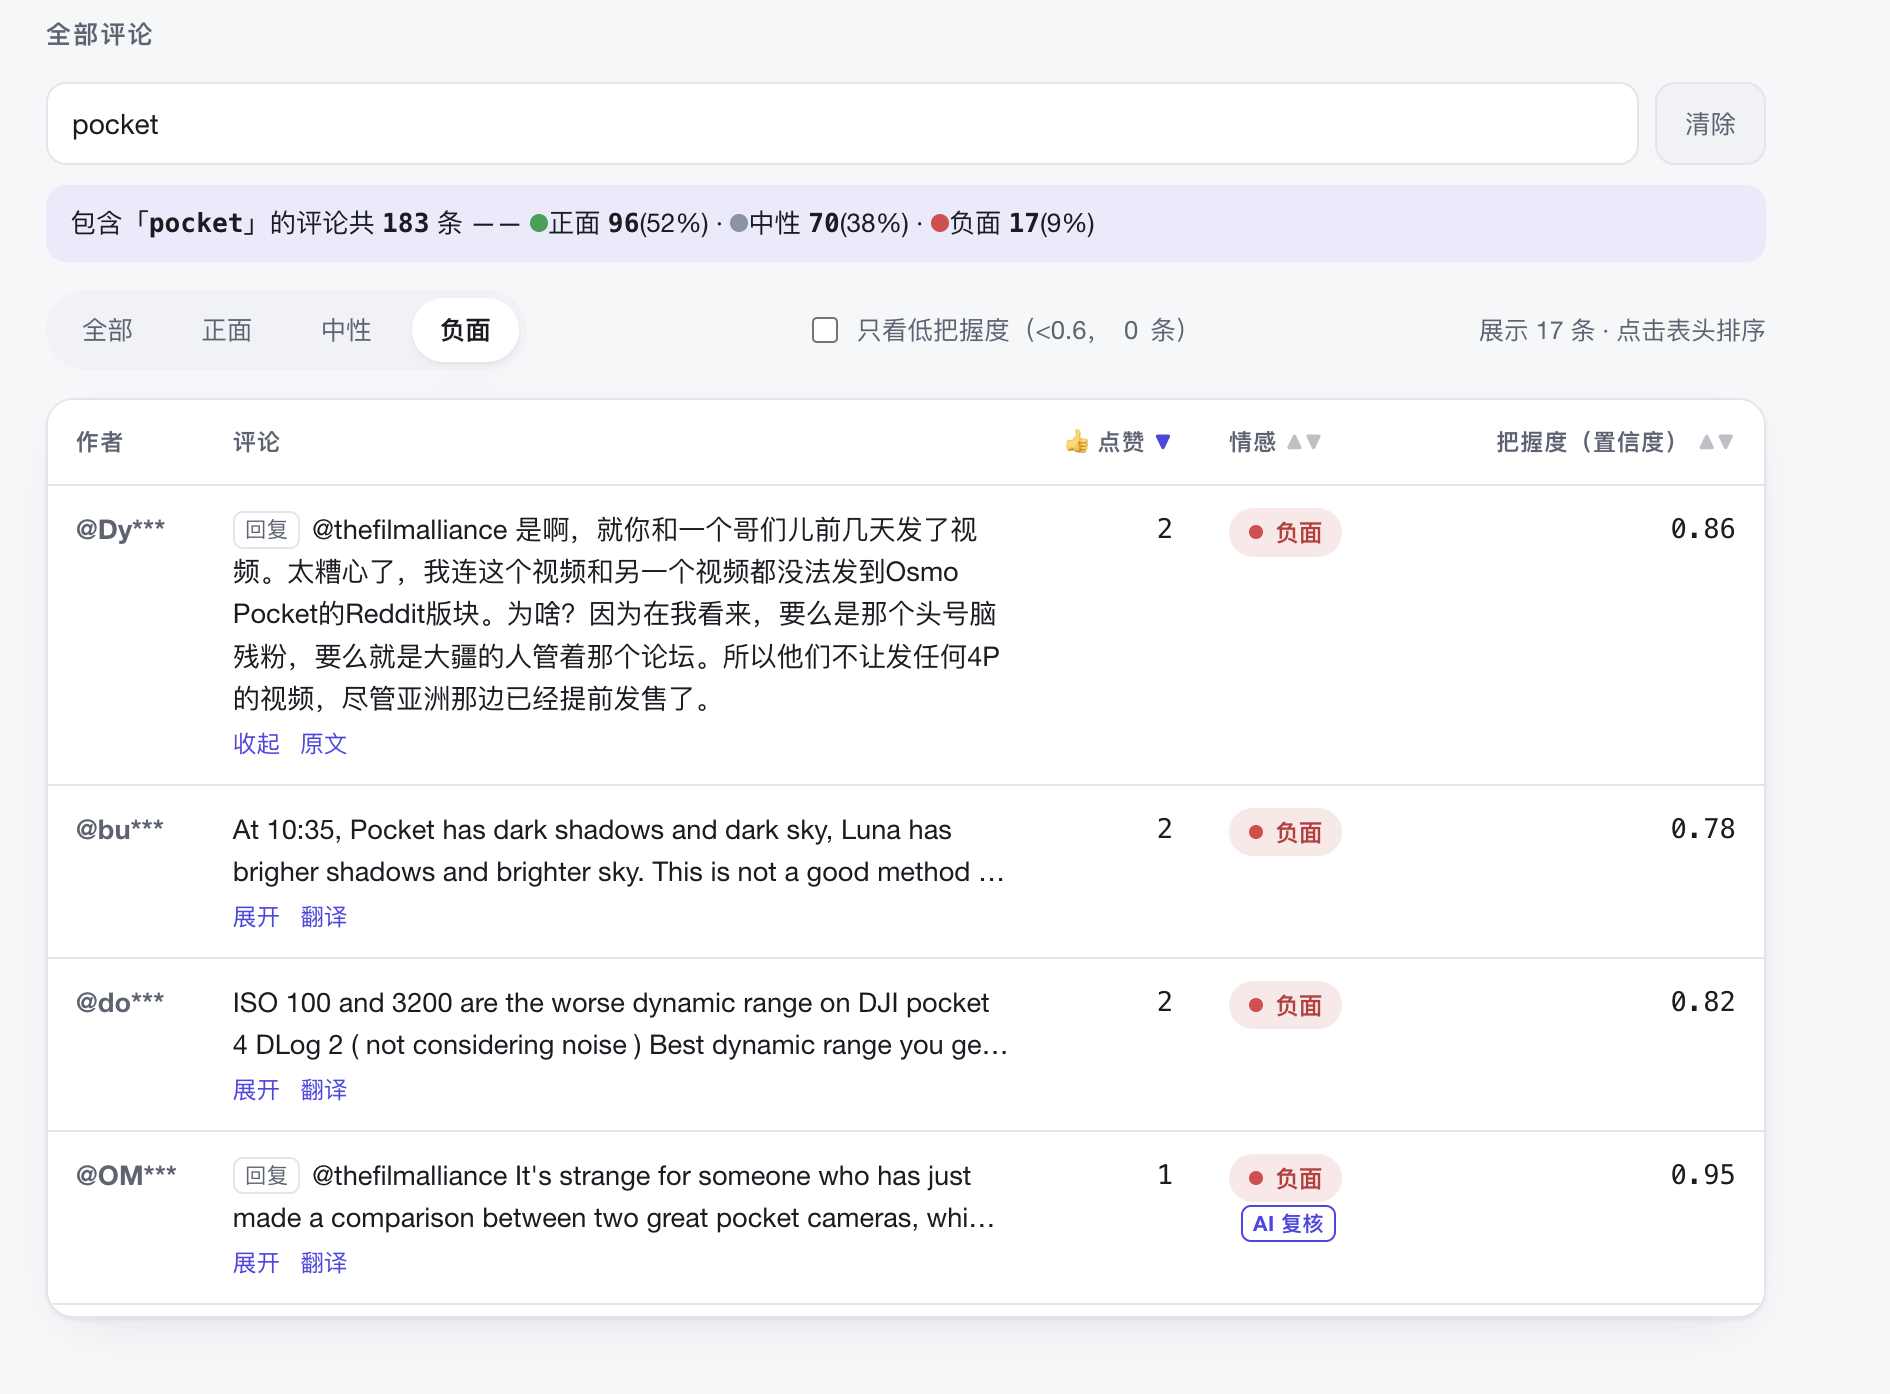
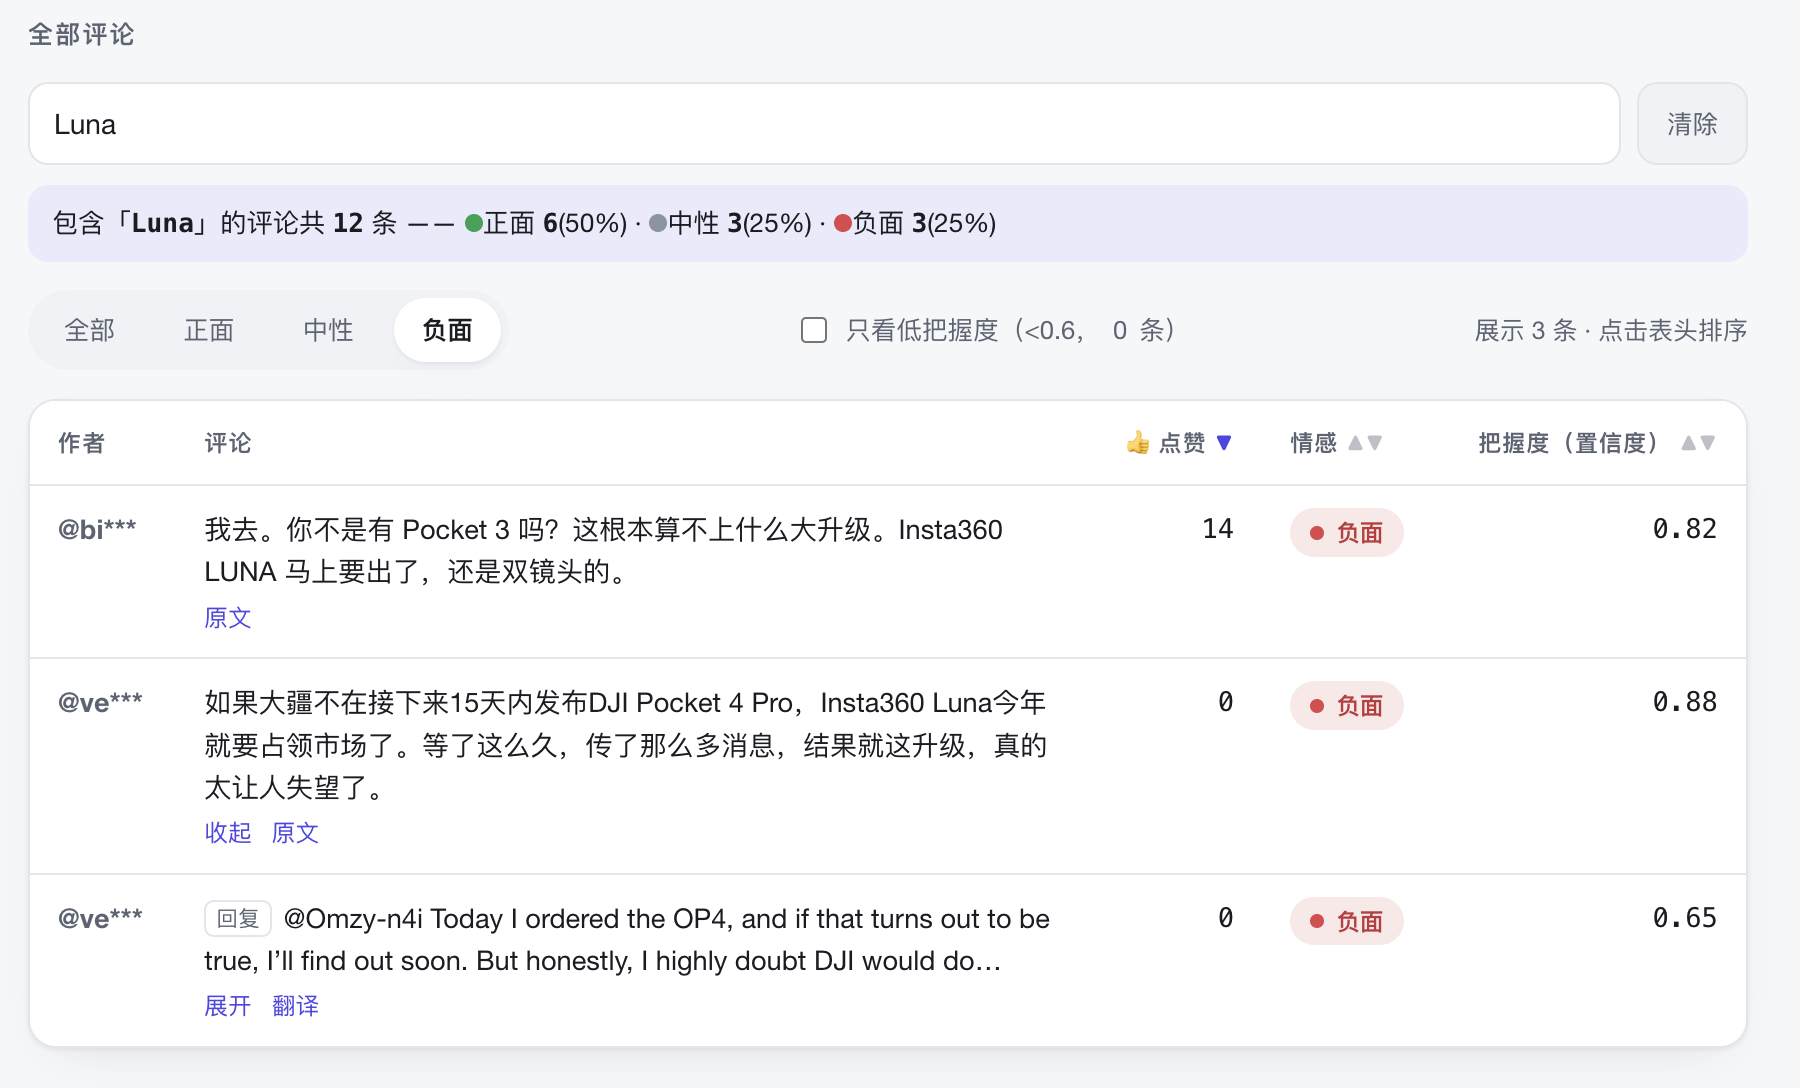
Dynamic theme count (6/9) + tone-colored theme cards; refresh screenshots
DeepSeek topic summary now asks for 9 themes when the video has more
than 200 comments, 6 otherwise (padding to 9 on a quiet video just
fragments the same discussion into near-duplicate cards). Each theme
now also carries a tone (positive/neutral/negative) judged from its
own comments, and the frontend colors the card background accordingly
using the app's existing sentiment palette instead of flat gray.

Swapped in fresh screenshots for the three README slots, including one
that shows the new colored theme cards in action.

diff --git a/frontend/style.css b/frontend/style.css
@@ -206,7 +206,12 @@ section.block{margin-top:30px}
 .theme-card{
   background:var(--surface-2); border-radius:10px; padding:12px 14px;
 }
+.theme-card.pos{background:var(--pos-soft)}
+.theme-card.neu{background:var(--neu-soft)}
+.theme-card.neg{background:var(--neg-soft)}
 .theme-card .t-title{font-size:.85rem; font-weight:700; margin-bottom:4px}
+.theme-card.pos .t-title{color:var(--pos-ink)}
+.theme-card.neg .t-title{color:var(--neg-ink)}
 .theme-card .t-desc{font-size:.8rem; color:var(--muted); line-height:1.6}
 
 .reviewed-badge{

diff --git a/frontend/app.js b/frontend/app.js
@@ -766,7 +766,7 @@ deepBtn.addEventListener("click", async () => {
     document.getElementById("themeList").innerHTML = data.topics.themes
       .map(
         (t) =>
-          `<div class="theme-card"><div class="t-title">${esc(t.title)}</div><div class="t-desc">${esc(t.description)}</div></div>`
+          `<div class="theme-card ${SENT[t.tone].cls}"><div class="t-title">${esc(t.title)}</div><div class="t-desc">${esc(t.description)}</div></div>`
       )
       .join("");
     const scope = full ? "全部" : "低把握度";

diff --git a/backend/llm.py b/backend/llm.py
@@ -142,13 +142,20 @@ def translate_comments(comments: list[dict]) -> list[dict]:
     return results
 
 
+TOPIC_THEME_COUNT_THRESHOLD = 200  # 评论数超过这个数就要求更多主题，评论少时硬凑够 9 个反而会拆得很碎
+TOPIC_THEME_COUNT_MANY = 9
+TOPIC_THEME_COUNT_FEW = 6
+
+
 def summarize_topics(comments: list[dict], video_title: str) -> dict:
     """对评论区做主题总结。取点赞最高的一批评论（不分情感类别）作代表样本，控制 token 成本。
-    返回 {"summary": str, "themes": [{"title": str, "description": str}]}。
+    评论区讨论越热闹（总评论数越多），值得拆出的主题数量也应该越多。
+    返回 {"summary": str, "themes": [{"title": str, "description": str, "tone": str}]}。
     """
     client = _get_client()
     sample = sorted(comments, key=lambda c: c.get("like_count", 0), reverse=True)[:TOPIC_SAMPLE_SIZE]
     numbered = "\n".join(f'- ({c.get("like_count", 0)} 👍) "{c["text"]}"' for c in sample)
+    theme_count = TOPIC_THEME_COUNT_MANY if len(comments) > TOPIC_THEME_COUNT_THRESHOLD else TOPIC_THEME_COUNT_FEW
 
     system = (
         "You analyze a YouTube video's comment section and summarize what viewers are "
@@ -159,10 +166,14 @@ def summarize_topics(comments: list[dict], video_title: str) -> dict:
     user = (
         f'Video title: "{video_title}"\n\n'
         "Here are the most-liked comments from the comment section (like count is shown). "
-        "Identify 3 to 5 concrete discussion themes and write a short overall summary.\n\n"
+        f"Identify exactly {theme_count} concrete discussion themes and write a short overall "
+        "summary. For each theme, also judge its overall emotional tone based on the comments "
+        "that make it up — positive（力挺/认可/感谢类）, negative（批评/吐槽/失望类）, or neutral"
+        "（客观讨论、信息分享、观点不明确偏向类，不要为了凑数硬套成正面或负面）。\n\n"
         "Return JSON exactly in this shape:\n"
         '{"summary": "<2-3 句话总述评论区整体在聊什么、氛围如何>", '
-        '"themes": [{"title": "<4-8字的主题标签>", "description": "<1-2句说明，可引用原文>"}]}\n\n'
+        '"themes": [{"title": "<4-8字的主题标签>", "description": "<1-2句说明，可引用原文>", '
+        '"tone": "positive|neutral|negative"}]}\n\n'
         f"Comments:\n{numbered}"
     )
     data = _chat_json(client, system, user)

diff --git a/backend/schema.py b/backend/schema.py
@@ -74,6 +74,7 @@ class ReclassifiedComment(BaseModel):
 class Theme(BaseModel):
     title: str
     description: str
+    tone: Literal["positive", "neutral", "negative"]  # 这个主题讨论呈现的整体情绪色彩
 
 
 class TopicSummary(BaseModel):
